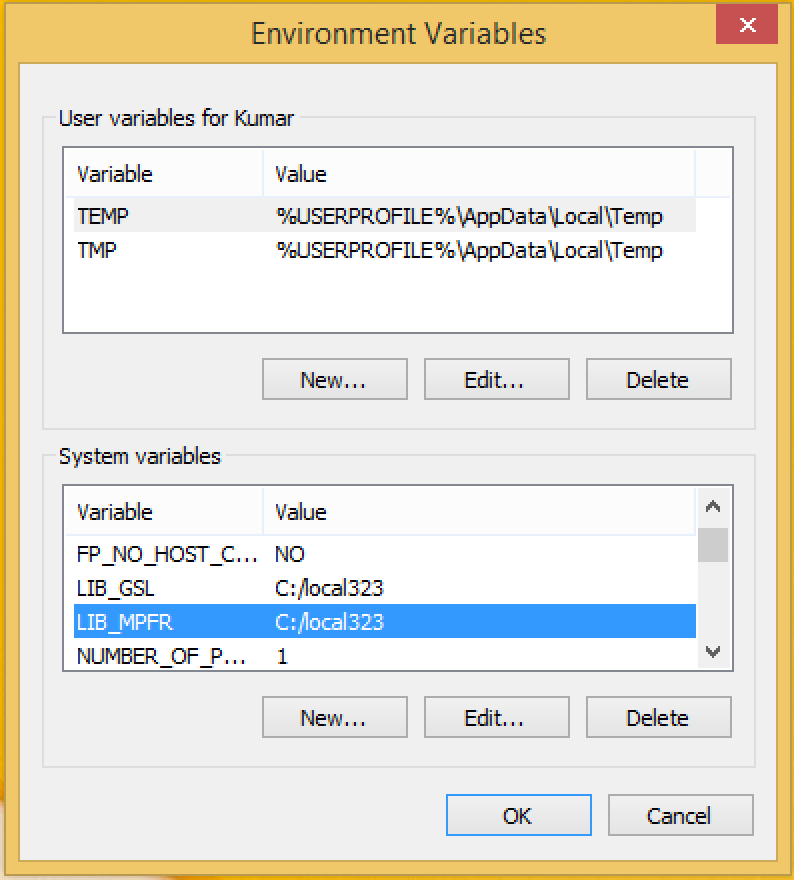
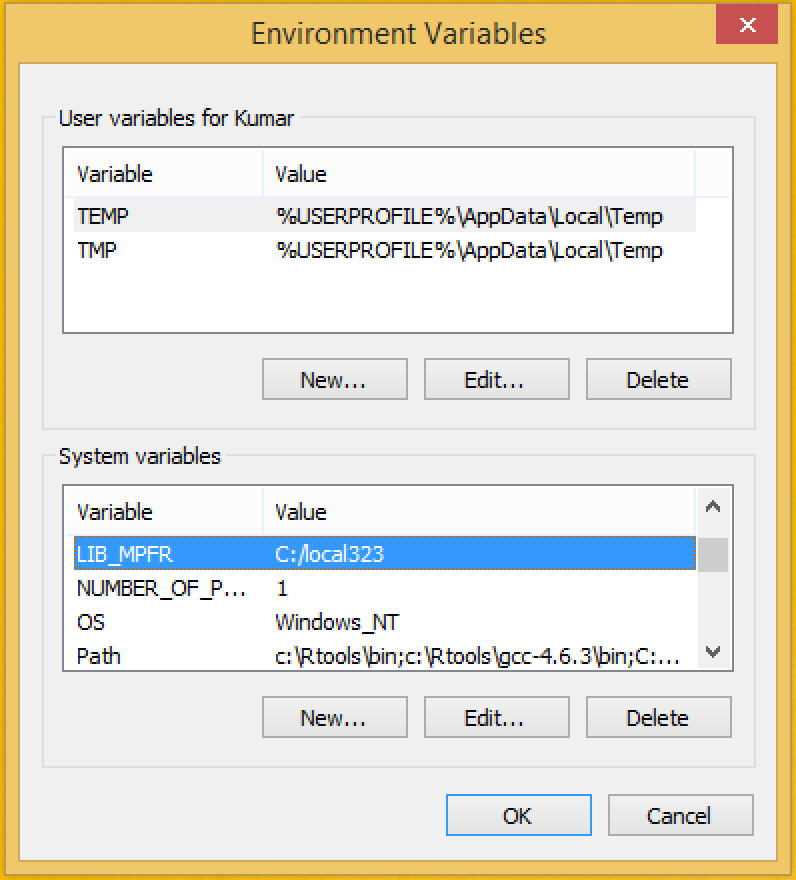
fixes to README [skip ci]

diff --git a/README.md b/README.md
@@ -50,7 +50,7 @@ The following instructions are vaild for Windows 8 and above.
     
     * Another option is to use the Windows search bar as shown in the picture below:  
     <img src="images/windows-3.png" width=300/>
-3. The location needs to be added against the variable LIB_GSL.  
+3. The location needs to be added against the variable LIB_MPFR.  
     <img src="images/windows-4.png" width=300/>
     <img src="images/windows-5.png" width=300/>
     <img src="images/windows-6.png" width=300/>
